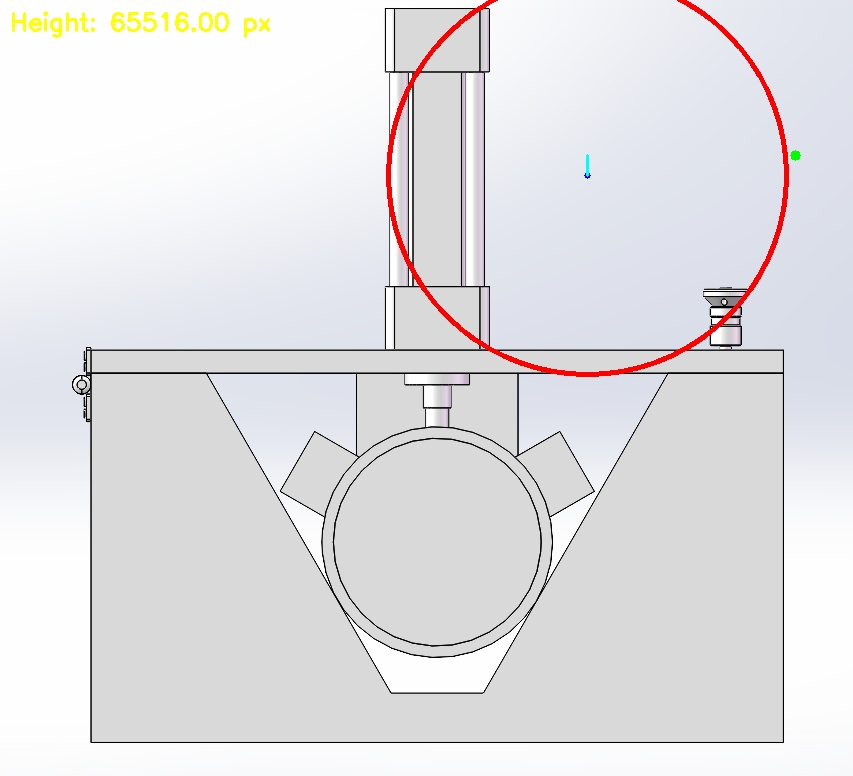
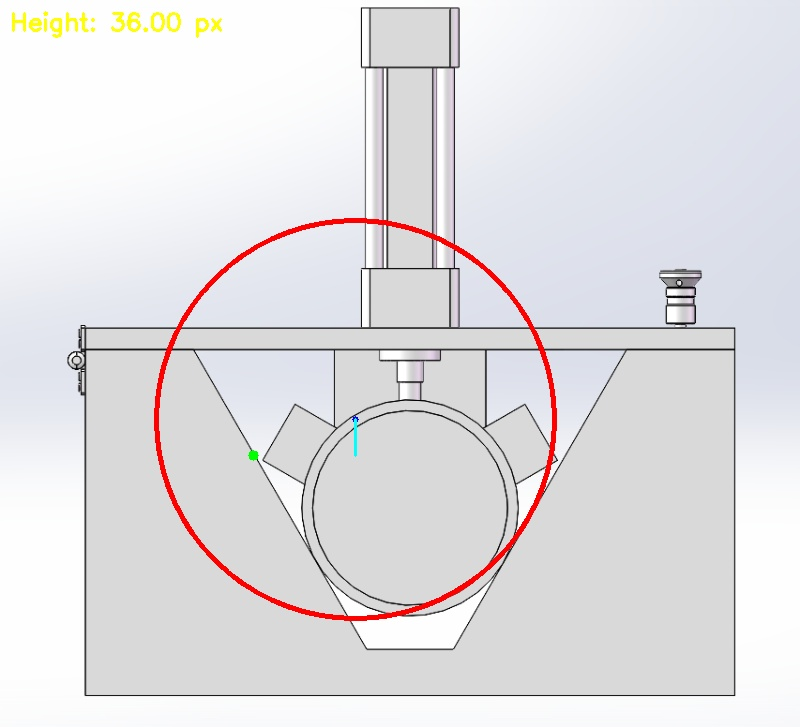
已经能够成功展示处理过的图片，但是精确度不高

diff --git a/main.py b/main.py
@@ -5,9 +5,20 @@ from image_processing import calculate_circle_center_height
 import cv2
 import numpy as np
 
-# 保存处理后的图片的临时目录
-TEMP_DIR = "temp_processed_images"
-os.makedirs(TEMP_DIR, exist_ok=True)
+
+# 不再需要临时目录，因为我们直接使用 Base64 编码的图片数据
+
+# 辅助函数：将OpenCV图像（numpy array）转换为Base64编码字符串，用于Flet显示。
+def image_to_base64(img_np):
+    """
+ 将OpenCV图像（numpy array）转换为Base64编码字符串，用于Flet显示。
+ """
+    # 确保图片是BGR格式，然后编码为PNG。PNG通常是无损的，适合Base64编码。
+    is_success, buffer = cv2.imencode(".png", img_np)
+    if not is_success:
+        print("Error: Could not encode image to PNG buffer for Base64.")
+        return None
+    return base64.b64encode(buffer).decode('utf-8')
 
 
 def main(page: ft.Page):
@@ -20,72 +31,94 @@ def main(page: ft.Page):
     # UI 元素
     selected_image_path1 = ft.Ref[ft.Text]()
     selected_image_path2 = ft.Ref[ft.Text]()
-    image_preview1 = ft.Ref[ft.Image]()
-    image_preview2 = ft.Ref[ft.Image]()
+    image_preview1 = ft.Ref[ft.Image]()  # 用于显示图片
+    image_preview2 = ft.Ref[ft.Image]()  # 用于显示图片
     result_text1 = ft.Ref[ft.Text]()
     result_text2 = ft.Ref[ft.Text]()
 
-    def image_to_base64(img_np):
-        """将OpenCV图像（numpy array）转换为Base64编码字符串，用于Flet显示。"""
-        _, buffer = cv2.imencode('.png', img_np)
-        return base64.b64encode(buffer).decode('utf-8')
+    def process_and_display_image(file_path: str, preview_ref: ft.Ref[ft.Image], result_ref: ft.Ref[ft.Text],
+                                  is_image_1: bool):
+        """
+  处理单张图片并更新UI显示。
+  Args:
+      file_path (str): 图片文件的路径。
+      preview_ref (ft.Ref[ft.Image]): 对应图片预览控件的引用。
+      result_ref (ft.Ref[ft.Text]): 对应结果文本控件的引用。
+      is_image_1 (bool): 是否是图片1，用于生成结果文本。
+  """
+        # --- 1. 读取原始图片并转换为Base64显示 ---
+        original_img_cv = cv2.imread(file_path)
+        if original_img_cv is None:
+            print(f"Error: Could not read original image from {file_path}")
+            preview_ref.current.src_base64 = None
+            preview_ref.current.visible = False
+            result_ref.current.value = f"图片{1 if is_image_1 else 2}：无法读取图片。"
+            page.update()
+            return
+
+        # 调整原始图片大小以适应预览框，避免过大图片导致UI卡顿
+        h_orig, w_orig = original_img_cv.shape[:2]
+        max_preview_dim = 400  # 预览框的最大尺寸
+        if max(h_orig, w_orig) > max_preview_dim:
+            scale = max_preview_dim / max(h_orig, w_orig)
+            original_img_cv = cv2.resize(original_img_cv, (int(w_orig * scale), int(h_orig * scale)))
+
+        base64_original_img = image_to_base64(original_img_cv)
+        if base64_original_img:
+            preview_ref.current.src_base64 = base64_original_img
+            preview_ref.current.visible = True
+        else:
+            print("Error: Could not convert original image to Base64.")
+            preview_ref.current.visible = False  # 隐藏图片
+        page.update()  # 立即更新 UI，显示原始图片（加载中或处理前）
+
+        # --- 2. 进行图像处理 ---
+        height, processed_img_cv = calculate_circle_center_height(file_path)
+
+        if processed_img_cv is not None:
+            base64_processed_img = image_to_base64(processed_img_cv)
+            if base64_processed_img:
+                preview_ref.current.src_base64 = base64_processed_img  # 更新为处理后的图片
+                # preview_ref.current.visible 已经设置为 True
+            else:
+                print("Error: Could not convert processed image to Base64.")
+                preview_ref.current.src_base64 = base64_original_img  # 回退显示原始图片
+        else:
+            print(f"Image {1 if is_image_1 else 2} processing failed, displaying original image.")
+            preview_ref.current.src_base64 = base64_original_img  # 保持显示原始图片
+            preview_ref.current.visible = True  # 确保图片可见
+
+        # --- 3. 更新结果文本 ---
+        if height is not None:
+            result_ref.current.value = f"圆心高度 (图片{1 if is_image_1 else 2}): {height:.2f} 像素"
+        else:
+            result_ref.current.value = f"图片{1 if is_image_1 else 2}：未能识别到圆或V形块。"
+
+        page.update()  # 最终更新 UI，显示处理结果和处理后的图片
 
     def on_dialog_result1(e: ft.FilePickerResultEvent):
         if e.files:
             file_path = e.files[0].path
             selected_image_path1.current.value = file_path
-
-            height, processed_img = calculate_circle_center_height(file_path)
-
-            if processed_img is not None:
-                # 将处理后的图像保存到临时文件并显示
-                temp_file_name = os.path.join(TEMP_DIR, f"processed_1_{os.path.basename(file_path)}")
-                cv2.imwrite(temp_file_name, processed_img)
-                image_preview1.current.src = temp_file_name
-                image_preview1.current.visible = True
-            else:
-                image_preview1.current.src = None
-                image_preview1.current.visible = False
-
-            if height is not None:
-                result_text1.current.value = f"圆心高度 (图片1): {height:.2f} 像素"
-            else:
-                result_text1.current.value = "图片1：未能识别到圆或V形块。"
+            process_and_display_image(file_path, image_preview1, result_text1, True)
         else:
             selected_image_path1.current.value = "未选择图片"
-            image_preview1.current.src = None
+            image_preview1.current.src_base64 = None  # 清除图片
             image_preview1.current.visible = False
             result_text1.current.value = ""
-
-        page.update()
+            page.update()
 
     def on_dialog_result2(e: ft.FilePickerResultEvent):
         if e.files:
             file_path = e.files[0].path
             selected_image_path2.current.value = file_path
-
-            height, processed_img = calculate_circle_center_height(file_path)
-
-            if processed_img is not None:
-                temp_file_name = os.path.join(TEMP_DIR, f"processed_2_{os.path.basename(file_path)}")
-                cv2.imwrite(temp_file_name, processed_img)
-                image_preview2.current.src = temp_file_name
-                image_preview2.current.visible = True
-            else:
-                image_preview2.current.src = None
-                image_preview2.current.visible = False
-
-            if height is not None:
-                result_text2.current.value = f"圆心高度 (图片2): {height:.2f} 像素"
-            else:
-                result_text2.current.value = "图片2：未能识别到圆或V形块。"
+            process_and_display_image(file_path, image_preview2, result_text2, False)
         else:
             selected_image_path2.current.value = "未选择图片"
-            image_preview2.current.src = None
+            image_preview2.current.src_base64 = None
             image_preview2.current.visible = False
             result_text2.current.value = ""
-
-        page.update()
+            page.update()
 
     file_picker1 = ft.FilePicker(on_result=on_dialog_result1)
     file_picker2 = ft.FilePicker(on_result=on_dialog_result2)

diff --git a/image_processing.py b/image_processing.py
@@ -20,34 +20,39 @@ def calculate_circle_center_height(image_path):
         print(f"Error: Could not read image from {image_path}")
         return None, None
 
+    # 将图像尺寸调整到合理大小，以便于处理和显示，同时保持比例
+    max_dim = 800
+    h, w = img.shape[:2]
+    if max(h, w) > max_dim:
+        scale = max_dim / max(h, w)
+        img = cv2.resize(img, (int(w * scale), int(h * scale)))
+
     gray = cv2.cvtColor(img, cv2.COLOR_BGR2GRAY)
     blurred = cv2.GaussianBlur(gray, (5, 5), 0)
     edges = cv2.Canny(blurred, 50, 150)
 
     # --- 1. 检测 V 形块的底部顶点 ---
-    # 尝试使用霍夫直线变换来检测 V 形块的直线
     lines = cv2.HoughLinesP(edges, 1, np.pi / 180, threshold=50, minLineLength=50, maxLineGap=10)
     v_lines = []
     if lines is not None:
         for line in lines:
             x1, y1, x2, y2 = line[0]
-            # 过滤出可能构成V形的两条线（例如，倾向于垂直且夹角合适的线）
-            # 这里需要更复杂的逻辑来准确识别V形块，简单示例先假设找到合适的线
-            # 实际应用中可能需要分析线的斜率和交点
             angle_rad = np.arctan2(y2 - y1, x2 - x1)
             angle_deg = np.degrees(angle_rad)
-            # 假设V形块的线在 -60度到 -30度 或 30度到 60度 之间
-            if (30 <= abs(angle_deg) <= 60) or (120 <= abs(angle_deg) <= 150):  # 考虑不同方向
+            # 筛选出斜率接近 V 形块边缘的线 (例如，倾斜角在 30-60 度或 120-150 度之间)
+            # 对于您提供的样例图片，V形块的线条较为垂直，更接近 90度左右的斜线。
+            # 如果是标准V形块，夹角可能在 30-60 度。这里根据您的图，调整一下角度范围
+            # 假设两条线是左倾斜和右倾斜的，绝对值在 30-60 或 120-150
+            # 考虑到您提供的图片，V形块的直线可能更接近 +/- 45 度左右
+            if (abs(angle_deg) > 30 and abs(angle_deg) < 80) or \
+                    (abs(angle_deg) > 100 and abs(angle_deg) < 150):
                 v_lines.append(line[0])
 
     v_bottom_point = None
     if len(v_lines) >= 2:
         # 简化处理：找到两条线的交点作为V形块的底部顶点
         # 实际项目中，需要更鲁棒的算法来匹配并找到正确的V形两条边和它们的交点
-        # 比如：计算所有线的交点，并选择y坐标最低且夹角合适的交点
 
-        # 为了演示，我们假设两条主要的V形线会非常明显，并且它们的交点在图像下方
-        # 这是一个简化的寻找交点的方法，实际应用中可能需要更复杂的几何计算
         potential_intersections = []
         for i in range(len(v_lines)):
             for j in range(i + 1, len(v_lines)):
@@ -65,7 +70,7 @@ def calculate_circle_center_height(image_path):
                 m2 = (y4 - y3) / denom2 if denom2 != 0 else float('inf')
 
                 # 如果平行或近似平行，则跳过
-                if abs(m1 - m2) < 0.1:
+                if abs(m1 - m2) < 0.1:  # 允许微小误差
                     continue
 
                 if denom1 == 0:  # line1 is vertical
@@ -78,23 +83,30 @@ def calculate_circle_center_height(image_path):
                     x_intersect = ((m1 * x1 - y1) - (m2 * x3 - y3)) / (m1 - m2)
                     y_intersect = m1 * (x_intersect - x1) + y1
 
-                # 检查交点是否在图像范围内
+                # 检查交点是否在图像范围内，并且Y坐标在图像底部区域
                 if 0 <= x_intersect < img.shape[1] and 0 <= y_intersect < img.shape[0]:
-                    potential_intersections.append((int(x_intersect), int(y_intersect)))
+                    # 仅考虑图像下半部分的交点，避免检测到上部无关的交点
+                    if y_intersect > img.shape[0] * 0.5:  # 假设V形块在图片下半部分
+                        potential_intersections.append((int(x_intersect), int(y_intersect)))
 
         # 找到y坐标最低的交点作为V形块的底部顶点 (假设V形开口向上)
         if potential_intersections:
             v_bottom_point = min(potential_intersections, key=lambda p: p[1])
             cv2.circle(img, v_bottom_point, 5, (0, 255, 0), -1)  # 绿色圆点标记V形块底部
+            # 绘制检测到的V形线（调试用）
+            # for line in v_lines:
+            #     cv2.line(img, (line[0], line[1]), (line[2], line[3]), (255, 0, 0), 2)
 
     # --- 2. 检测圆 ---
+    # 霍夫圆变换参数可能需要针对您的实际图片进行调整
+    # 图像分辨率、圆的大小、图像清晰度等都会影响参数的选择
     circles = cv2.HoughCircles(
         blurred,
         cv2.HOUGH_GRADIENT,
-        dp=1.2,  # 累加器分辨率与图像分辨率的反比
-        minDist=100,  # 两个圆心之间的最小距离
-        param1=100,  # Canny边缘检测的高阈值
-        param2=30,  # 累加器阈值，越小检测到的圆越多
+        dp=1.2,  # 累加器分辨率与图像分辨率的反比。值越大，累加器分辨率越低，处理速度快，但可能漏掉细节。
+        minDist=100,  # 两个圆心之间的最小距离。避免检测到多个重叠的圆。
+        param1=100,  # Canny边缘检测的高阈值。
+        param2=30,  # 累加器阈值。越小检测到的圆越多，但可能包含假圆。
         minRadius=50,  # 最小圆半径
         maxRadius=200  # 最大圆半径
     )
@@ -102,12 +114,15 @@ def calculate_circle_center_height(image_path):
     circle_center = None
     if circles is not None:
         circles = np.uint16(np.around(circles))
-        # 找到最大的圆（假设是夹持的圆）
+        # 找到最大的圆（假设是夹持的圆），并确保圆心在图像下半部分（与V形块区域一致）
         largest_circle = None
         max_radius = 0
+        img_height = img.shape[0]
         for i in circles[0, :]:
-            if i[2] > max_radius:
-                max_radius = i[2]
+            center_x, center_y, radius = i[0], i[1], i[2]
+            # 仅考虑圆心在图像下半部分的圆
+            if center_y > img_height * 0.3 and radius > max_radius:  # 调整 0.3 为更合适的比例
+                max_radius = radius
                 largest_circle = i
 
         if largest_circle is not None:
@@ -120,7 +135,7 @@ def calculate_circle_center_height(image_path):
     # --- 3. 计算圆心高度 ---
     height = None
     if v_bottom_point and circle_center:
-        # 高度为圆心Y坐标减去V形块底部Y坐标
+        # 高度为V形块底部Y坐标减去圆心Y坐标
         # 假设图像y轴正方向向下，所以y坐标越大越低
         height = v_bottom_point[1] - circle_center[1]
         cv2.line(img, (circle_center[0], circle_center[1]),
